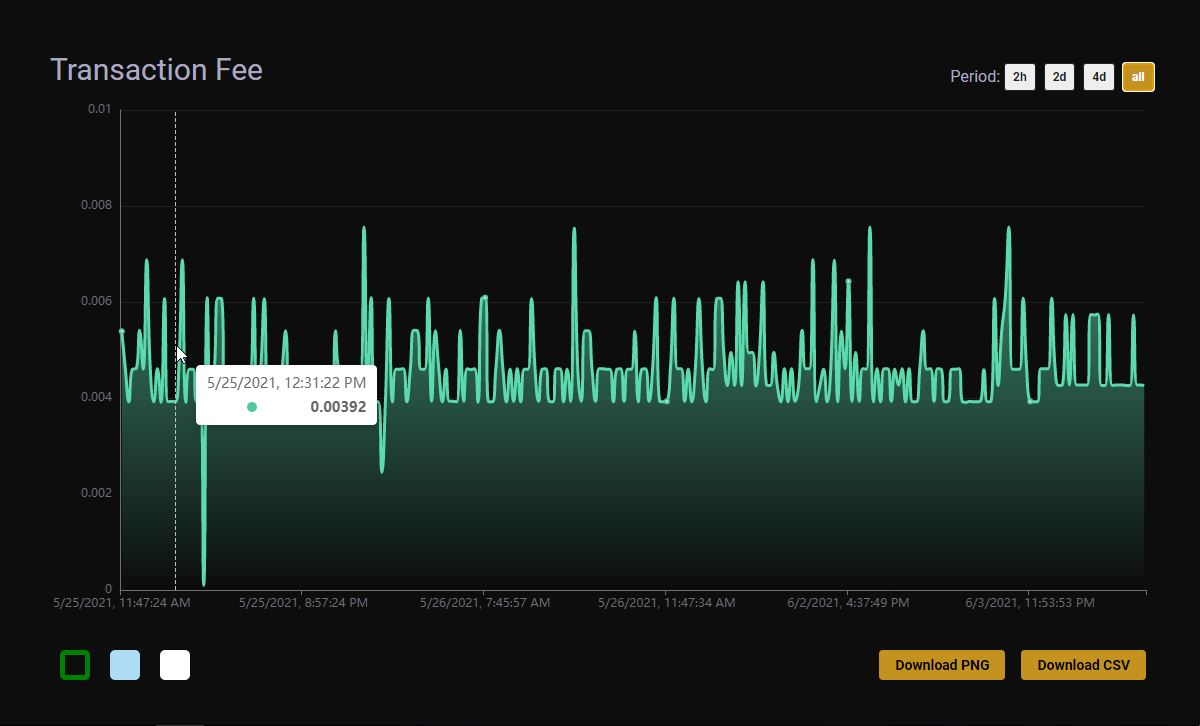
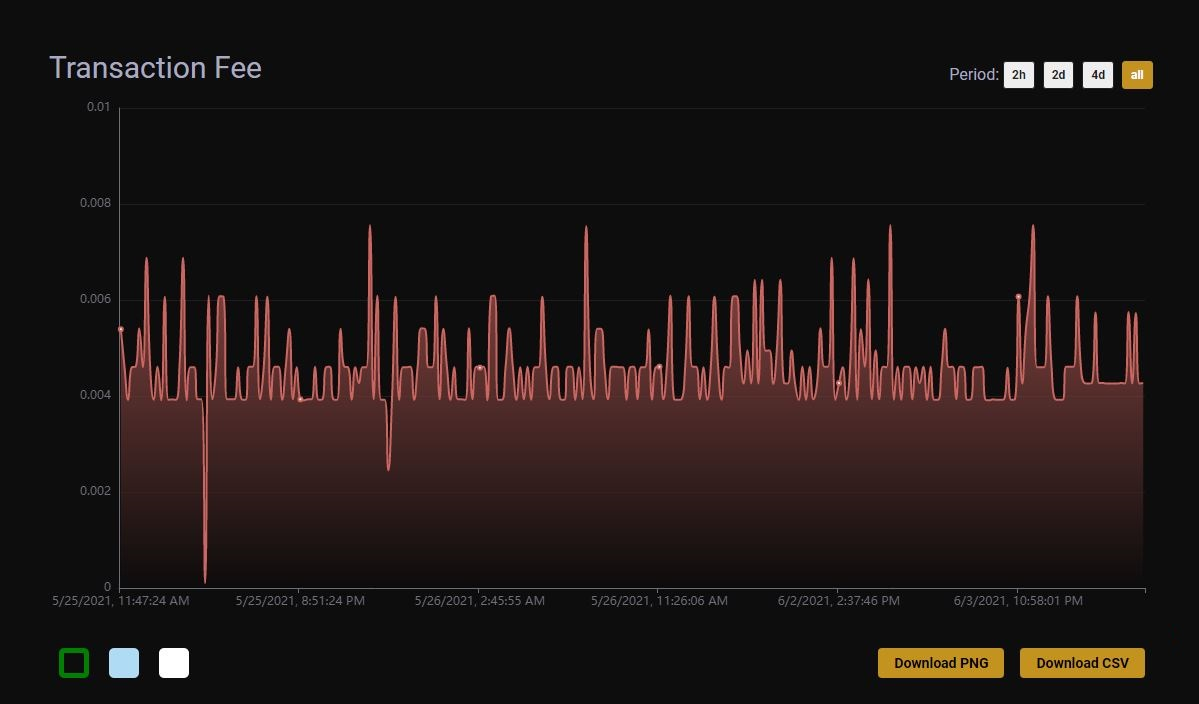
add transaction fee chart

diff --git a/src/features/pastelStatistics/utils/ChartOptions.ts b/src/features/pastelStatistics/utils/ChartOptions.ts
@@ -339,7 +339,7 @@ export function getThemeInitOption(args: TThemeInitOption): EChartsOption {
       },
     },
     transactionfee: {
-      color: ['#53c79f'],
+      color: ['#cd6661'],
       grid: {
         top: 8,
         right: 8,
@@ -381,7 +381,7 @@ export function getThemeInitOption(args: TThemeInitOption): EChartsOption {
           color: new echarts.graphic.LinearGradient(0, 0, 0, 1, [
             {
               offset: 0,
-              color: '#53c79f',
+              color: '#cd6661',
             },
             {
               offset: 1,

diff --git a/src/features/pastelStatistics/components/transactionfeeovertime/TransactionFeeOvertime.tsx b/src/features/pastelStatistics/components/transactionfeeovertime/TransactionFeeOvertime.tsx
@@ -82,7 +82,7 @@ const TransactionFeeOvertime = (
               chartName='transactionfee'
               dataY={transformLineChartData?.dataY}
               dataX={transformLineChartData?.dataX}
-              title='Transaction Fee'
+              title='Transaction Fee(usd)'
               info={info}
               offset={0.01}
               periods={periods[0]}

diff --git a/src/features/pastelStatistics/common/constants.ts b/src/features/pastelStatistics/common/constants.ts
@@ -9,7 +9,7 @@ import { TGranularity, TPeriod } from '../utils/PastelStatisticsLib'
 
 export const pastelChartFields = [
   {
-    name: 'AverageBlockSize',
+    name: 'Average Block Size',
     routeName: '/statistics/averageblocksizeovertime',
     backgroundImage: AverageBlockSize,
   },
